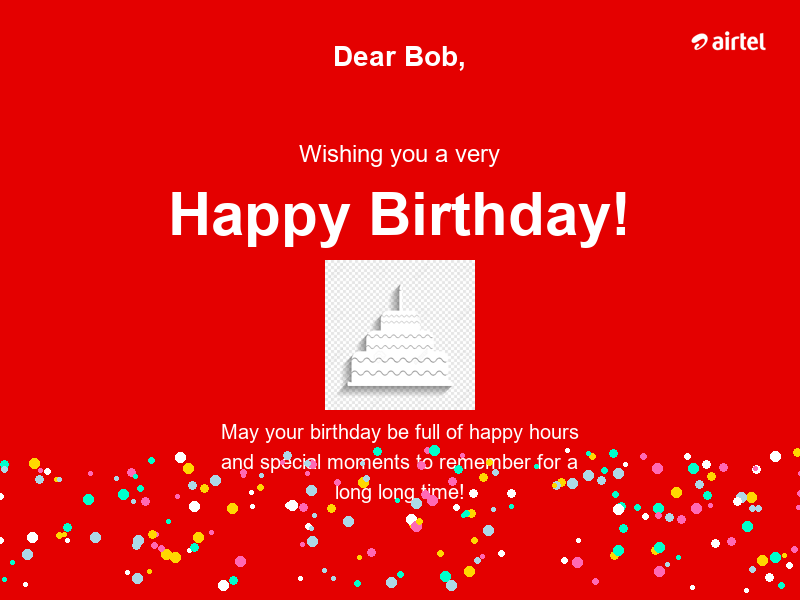
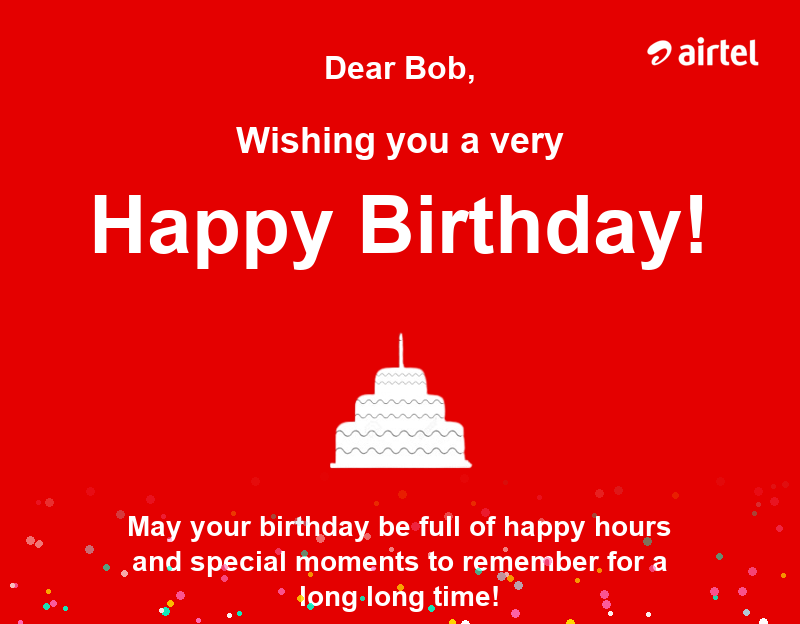
email change

diff --git a/birthday_generator.py b/birthday_generator.py
@@ -7,106 +7,80 @@ from PIL import Image, ImageDraw, ImageFont
 import datetime
 import os
 from io import BytesIO
+import random
 
 class BirthdayImageGenerator:
     def __init__(self, csv_file, smtp_server, smtp_port, email_user, email_password):
-        """
-        Initialize the birthday image generator
-        
-        Args:
-            csv_file: Path to CSV file with employee data
-            smtp_server: SMTP server for sending emails
-            smtp_port: SMTP port
-            email_user: Sender email address
-            email_password: Sender email password
-        """
         self.csv_file = csv_file
         self.smtp_server = smtp_server
         self.smtp_port = smtp_port
         self.email_user = email_user
         self.email_password = email_password
-        
+
     def load_employee_data(self):
-        """Load employee data from CSV file"""
         try:
             df = pd.read_csv(self.csv_file)
-            # Ensure required columns exist
             required_columns = ['empid', 'first_name', 'second_name', 'email', 'dob', 'department']
             for col in required_columns:
                 if col not in df.columns:
                     raise ValueError(f"Missing required column: {col}")
-            
-            # Create full name by combining first and second name
+
             df['full_name'] = df['first_name'].astype(str) + ' ' + df['second_name'].astype(str)
-            
-            # Convert dob column to datetime with flexible format handling
             df['birthday'] = pd.to_datetime(df['dob'], format='mixed', dayfirst=True)
             return df
         except Exception as e:
             print(f"Error loading CSV file: {e}")
             return None
-    
+
     def get_todays_birthdays(self, df):
-        """Get employees with birthdays today"""
         today = datetime.date.today()
         birthday_employees = []
-        
+
         for _, employee in df.iterrows():
             emp_birthday = employee['birthday'].date()
-            # Check if birthday matches today (month and day)
             if emp_birthday.month == today.month and emp_birthday.day == today.day:
                 birthday_employees.append(employee)
-        
-        return birthday_employees
-        
-    def create_birthday_image(self, name):
-        """Create a personalized Airtel-themed birthday image with larger logo, cake, and gradient confetti"""
-        from PIL import ImageFont
 
-        # Image size
-        width, height = 800, 600
+        return birthday_employees
+
+    def create_birthday_image(self, name):
+        width, height = 800, 624
         img = Image.new('RGB', (width, height), color='#e40000')
         draw = ImageDraw.Draw(img)
 
-        # Load bold/enlarged fonts
         try:
-            header_font = ImageFont.truetype("arialbd.ttf", 36)  # Bold header
-            main_font = ImageFont.truetype("arialbd.ttf", 80)    # Bold main message
-            sub_font = ImageFont.truetype("arialbd.ttf", 28)     # Sub-message
-            name_font = ImageFont.truetype("arialbd.ttf", 32)    # Name
+            header_font = ImageFont.truetype("arialbd.ttf", 36)
+            main_font = ImageFont.truetype("arialbd.ttf", 80)
+            sub_font = ImageFont.truetype("arialbd.ttf", 28)
+            name_font = ImageFont.truetype("arialbd.ttf", 32)
         except:
             header_font = ImageFont.load_default()
             main_font = ImageFont.load_default()
             sub_font = ImageFont.load_default()
             name_font = ImageFont.load_default()
 
-        # Airtel logo (top-right) - Larger
         try:
             logo = Image.open("airtel_logo.png").convert("RGBA")
-            logo.thumbnail((150, 150))  # Bigger logo
+            logo.thumbnail((150, 150))
             img.paste(logo, (width - logo.width - 20, 20), mask=logo)
         except Exception as e:
             print(f"Could not load Airtel logo: {e}")
 
-        # Draw "Dear <name>"
         dear_text = f"Dear {name},"
         dear_bbox = draw.textbbox((0, 0), dear_text, font=name_font)
         dear_w = dear_bbox[2] - dear_bbox[0]
         draw.text(((width - dear_w) // 2, 50), dear_text, fill="white", font=name_font)
 
-        # "Wishing you a very"
         header_text = "Wishing you a very"
         header_bbox = draw.textbbox((0, 0), header_text, font=header_font)
         header_w = header_bbox[2] - header_bbox[0]
-        draw.text(((width - header_w) // 2, 140), header_text, fill="white", font=header_font)
+        draw.text(((width - header_w) // 2, 120), header_text, fill="white", font=header_font)
 
-        # "Happy Birthday!"
         main_text = "Happy Birthday!"
         main_bbox = draw.textbbox((0, 0), main_text, font=main_font)
         main_w = main_bbox[2] - main_bbox[0]
-        draw.text(((width - main_w) // 2, 200), main_text, fill="white", font=main_font)
+        draw.text(((width - main_w) // 2, 180), main_text, fill="white", font=main_font)
 
-        # Add Cake image (larger)
         try:
             cake = Image.open("cake.png").convert("RGBA")
             cake.thumbnail((200, 200))
@@ -118,7 +92,6 @@ class BirthdayImageGenerator:
             print(f"Could not load cake image: {e}")
             y = 330
 
-        # Sub-message
         message = (
             "May your birthday be full of happy hours\n"
             "and special moments to remember for a\n"
@@ -130,38 +103,29 @@ class BirthdayImageGenerator:
             draw.text(((width - line_w) // 2, y), line, fill="white", font=sub_font)
             y += 35
 
-        # Add confetti (gradient, soft, sparse)
-        import random
         confetti_colors = ['#ffffff', '#ffd700', '#00ffcc', '#ff69b4', '#add8e6']
         confetti_img = Image.new('RGBA', img.size, (255, 0, 0, 0))
         confetti_draw = ImageDraw.Draw(confetti_img)
 
-        for _ in range(100):  # Reduced count
+        for _ in range(100):
             x = random.randint(0, width)
             y = random.randint(height - 150, height)
             r = random.randint(2, 4)
             color = random.choice(confetti_colors)
-            alpha = int(255 * (y - (height - 150)) / 150)  # Gradient opacity
+            alpha = int(255 * (y - (height - 150)) / 150)
             confetti_color = tuple(int(color[i:i+2], 16) for i in (1, 3, 5)) + (alpha,)
             confetti_draw.ellipse((x - r, y - r, x + r, y + r), fill=confetti_color)
 
-        # Merge confetti with main image
         img = Image.alpha_composite(img.convert('RGBA'), confetti_img)
+        return img.convert('RGB')
 
-        return img.convert('RGB')  # Return RGB image for saving/sending
-
-
-    
     def send_birthday_email(self, employee_email, first_name, full_name, department, image_data):
-        """Send birthday email with generated image"""
         try:
-            # Create message
             msg = MIMEMultipart('related')
             msg['From'] = self.email_user
             msg['To'] = employee_email
-            msg['Subject'] = f"🎉 Happy Birthday {first_name}! 🎉"
-            
-            # Create HTML body
+            msg['Subject'] = f"\U0001F389 Happy Birthday {first_name}! \U0001F389"
+
             html_body = f"""
             <html>
                 <body>
@@ -170,104 +134,79 @@ class BirthdayImageGenerator:
                     <p>We hope your special day is filled with happiness, laughter, and joy!</p>
                     <p>Best wishes from everyone from Bharti Airtel Family!</p>
                     <br>
-                    <img src="cid:birthday_image" alt="Birthday Wishes" style="max-width: 100%; height: auto;">
+                    <img src=\"cid:birthday_image\" alt=\"Birthday Wishes\" style=\"max-width: 100%; height: auto;\">
                     <br><br>
                     <p>Have a wonderful birthday!</p>
                     <p>Warm regards,<br>CEO,<br> Bharti Airtel</p>
                 </body>
             </html>
             """
-            
+
             msg.attach(MIMEText(html_body, 'html'))
-            
-            # Attach image
+
             img_attachment = MIMEImage(image_data)
             img_attachment.add_header('Content-ID', '<birthday_image>')
             msg.attach(img_attachment)
-            
-            # Send email
+
             server = smtplib.SMTP(self.smtp_server, self.smtp_port)
             server.starttls()
             server.login(self.email_user, self.email_password)
-            text = msg.as_string()
-            server.sendmail(self.email_user, employee_email, text)
+            server.sendmail(self.email_user, employee_email, msg.as_string())
             server.quit()
-            
+
             print(f"Birthday email sent successfully to {full_name} ({employee_email})")
             return True
-            
+
         except Exception as e:
             print(f"Error sending email to {full_name}: {e}")
             return False
-    
+
     def process_birthdays(self, save_images=True):
-        """Main function to process today's birthdays"""
-        # Load employee data
         df = self.load_employee_data()
         if df is None:
             return
-        
-        # Get today's birthday employees
+
         birthday_employees = self.get_todays_birthdays(df)
-        
+
         if not birthday_employees:
             print("No birthdays today!")
             return
-        
+
         print(f"Found {len(birthday_employees)} birthday(s) today!")
-        
-        # Create images and send emails for each birthday employee
+
+        output_dir = "output_img"
+        if save_images and not os.path.exists(output_dir):
+            os.makedirs(output_dir)
+
         for employee in birthday_employees:
             empid = employee['empid']
             first_name = employee['first_name']
             full_name = employee['full_name']
             email = employee['email']
             department = employee['department']
-            
+
             print(f"Processing birthday for {full_name} (ID: {empid}, Dept: {department})...")
-            
-            # Generate birthday image using first name for personalization
+
             birthday_img = self.create_birthday_image(first_name)
-            
-            # Convert image to bytes
             img_byte_arr = BytesIO()
             birthday_img.save(img_byte_arr, format='PNG')
             img_byte_arr = img_byte_arr.getvalue()
-            
-            # Save image locally if requested
+
             if save_images:
                 img_filename = f"birthday_{empid}_{full_name.replace(' ', '_')}_{datetime.date.today().strftime('%Y%m%d')}.png"
-                birthday_img.save(img_filename)
-                print(f"Image saved as {img_filename}")
-            
-            # Send email
+                img_path = os.path.join(output_dir, img_filename)
+                birthday_img.save(img_path)
+                print(f"Image saved as {img_path}")
+
             self.send_birthday_email(email, first_name, full_name, department, img_byte_arr)
 
 def main():
-    """
-    Main function to run the birthday image generator
-    
-    Setup instructions:
-    1. Create a CSV file with columns: empid, first_name, second_name, email, dob, department
-    2. DOB format should be YYYY-MM-DD (e.g., 1990-12-25)
-    3. Configure your email settings below
-    """
-    
-    # Configuration
-    CSV_FILE = "employees.csv"  # Path to your CSV file
-    
-    # Email configuration (update with your SMTP settings)
-    SMTP_SERVER = "smtp.gmail.com"  # For Gmail
+    CSV_FILE = "employees.csv"
+    SMTP_SERVER = "smtp.gmail.com"
     SMTP_PORT = 587
-    EMAIL_USER = "parikshit.cansat@gmail.com"  # Your email
-    
-    # Option 1: Direct password (less secure)
-    EMAIL_PASSWORD = "uvwj adhp gvfd ahww"  # Replace with your actual app password
-    
-    # Option 2: Environment variable (more secure) - Uncomment line below and comment line above
-    # EMAIL_PASSWORD = os.getenv('GMAIL_APP_PASSWORD')  # Set this in your environment
-    
-    # Create birthday generator instance
+    EMAIL_USER = "shashwat.airtel@gmail.com"
+    EMAIL_PASSWORD = "rhar coyy iggw faia"
+
     birthday_gen = BirthdayImageGenerator(
         csv_file=CSV_FILE,
         smtp_server=SMTP_SERVER,
@@ -275,11 +214,8 @@ def main():
         email_user=EMAIL_USER,
         email_password=EMAIL_PASSWORD
     )
-    
-    # Process today's birthdays
+
     birthday_gen.process_birthdays(save_images=True)
 
 if __name__ == "__main__":
-  
-    # Run the main birthday processor
     main()

diff --git a/create_csv.py b/create_csv.py
@@ -5,10 +5,16 @@ def create_csv():
         'empid': ['EMP001', 'EMP002', 'EMP003', 'EMP004'],
         'first_name': ['Alice', 'Bob', 'Carol', 'David'],
         'second_name': ['Johnson', 'Smith', 'Davis', 'Wilson'],
-        'email': ['shashwat.airtel@gmail.com', 'shashwat.airtel@gmail.com', 'shashwat.airtel@gmail.com', 'shashwat.airtel@gmail.com'],
-        'dob': ['1990-06-02', '1985-06-03', '1992-06-02', '1988-06-03'],  # Today's and tomorrow's dates for testing
+        'email': [
+            'parikshit.cansat@gmail.com',
+            'parikshit.cansat@gmail.com',
+            'parikshit.cansat@gmail.com',
+            'parikshit.cansat@gmail.com'
+        ],
+        'dob': ['1990-06-02', '1985-06-03', '1992-06-02', '1988-06-03'],
         'department': ['Engineering', 'Marketing', 'HR', 'Engineering']
     }
+
     
     df = pd.DataFrame(sample_data)
     df.to_csv('employees.csv', index=False)
